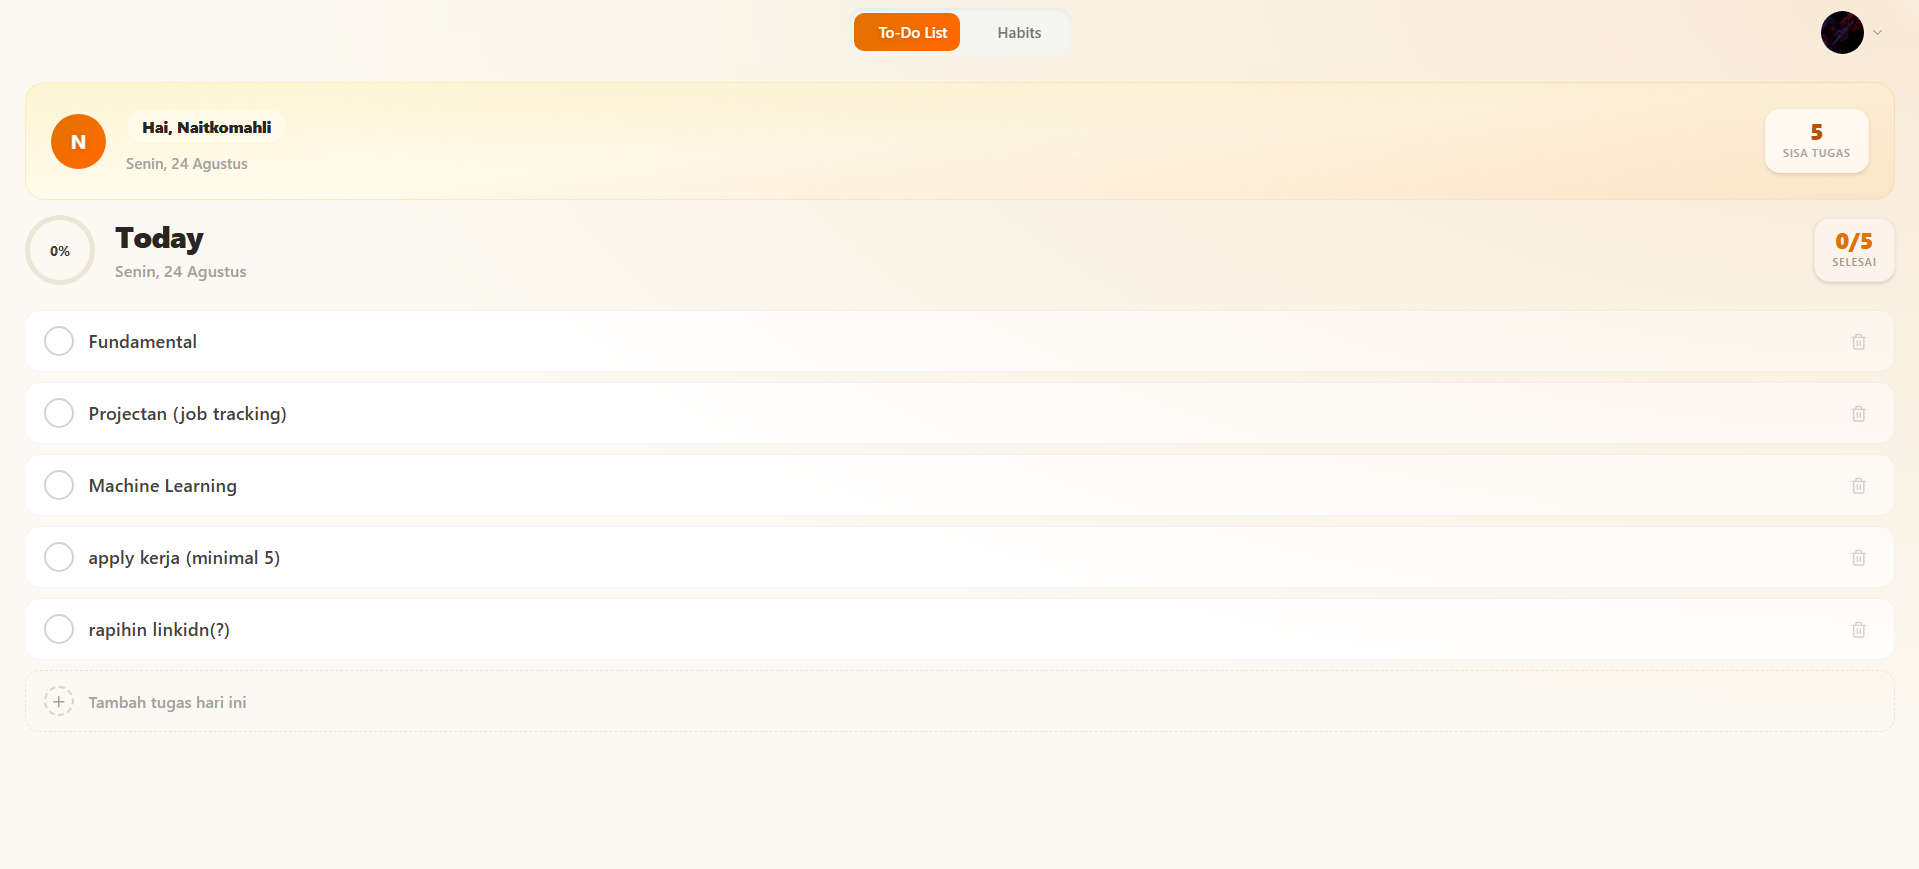
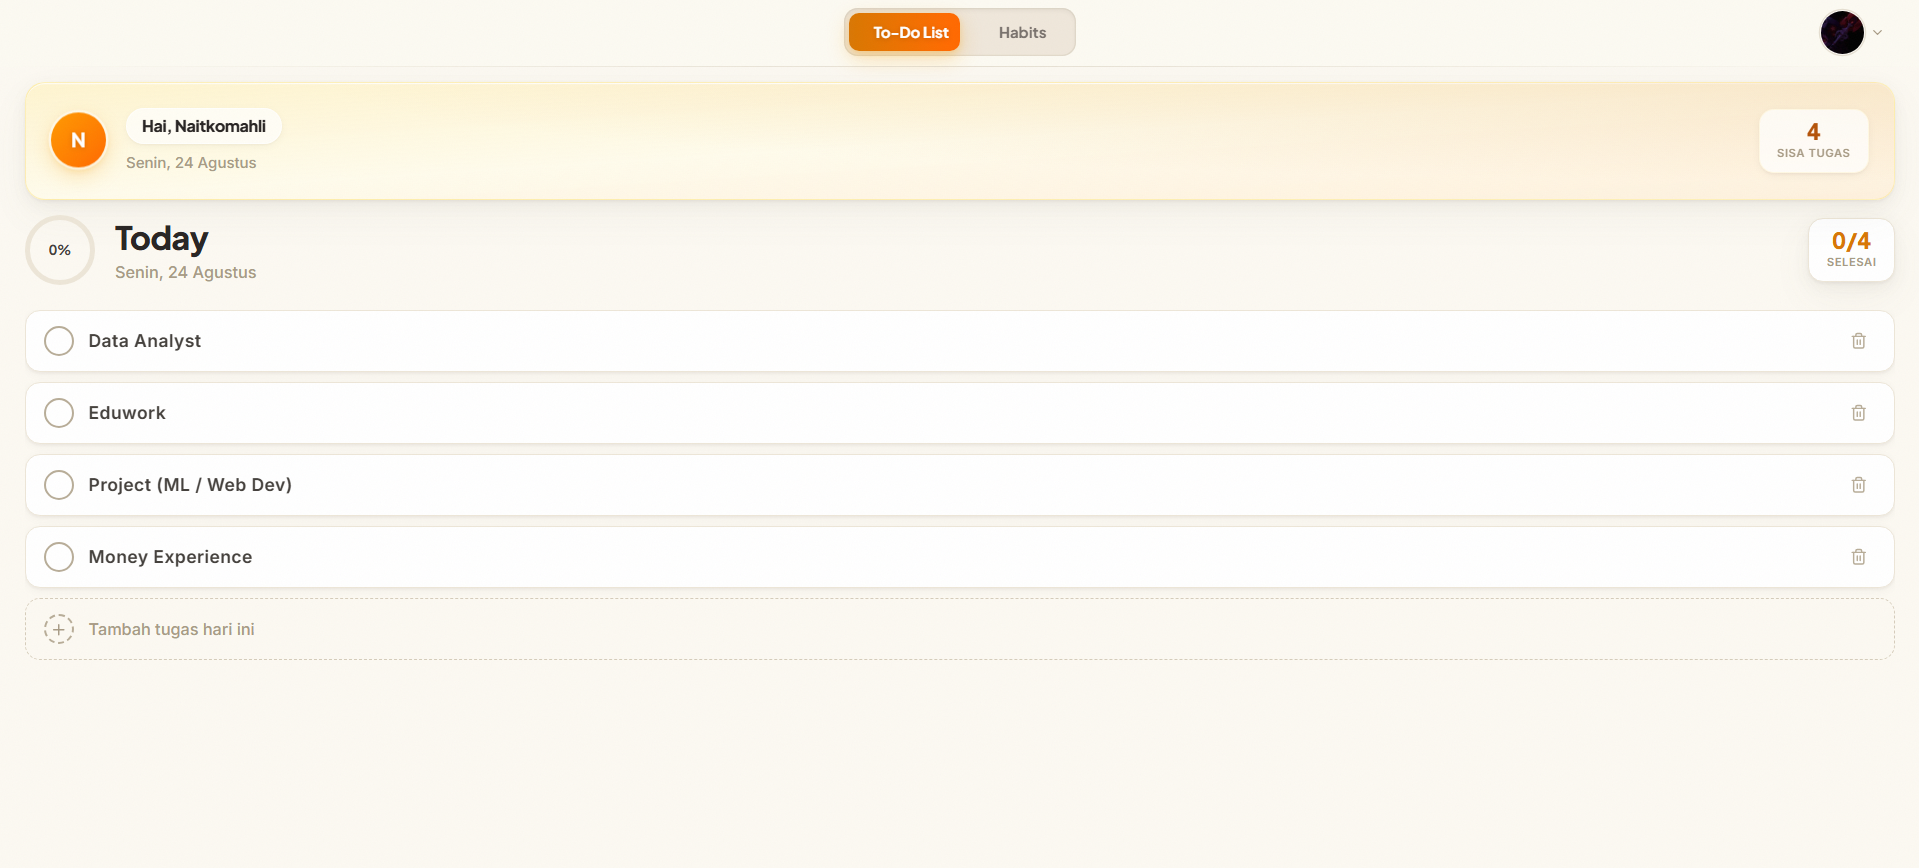
add github link at Job Tracker card project

diff --git a/index.html b/index.html
@@ -93,27 +93,44 @@
           </button>
           <div class="collapse navbar-collapse" id="navbarNav">
             <nav class="navbar-nav ms-auto">
-              <a href="#about" class="nav-link nav-link-dark fw-semibold mx-2" data-i18n="nav-about"
+              <a
+                href="#about"
+                class="nav-link nav-link-dark fw-semibold mx-2"
+                data-i18n="nav-about"
                 >About</a
               >
-              <a href="#skills" class="nav-link nav-link-dark fw-semibold mx-2" data-i18n="nav-skills"
+              <a
+                href="#skills"
+                class="nav-link nav-link-dark fw-semibold mx-2"
+                data-i18n="nav-skills"
                 >Skills</a
               >
               <a
                 href="#experience"
-                class="nav-link nav-link-dark fw-semibold mx-2" data-i18n="nav-experience"
+                class="nav-link nav-link-dark fw-semibold mx-2"
+                data-i18n="nav-experience"
                 >Experience</a
               >
               <a
                 href="#projects"
-                class="nav-link nav-link-dark fw-semibold mx-2" data-i18n="nav-projects"
+                class="nav-link nav-link-dark fw-semibold mx-2"
+                data-i18n="nav-projects"
                 >Projects</a
               >
-              <a href="#contact" class="nav-link nav-link-dark fw-semibold mx-2" data-i18n="nav-contact"
+              <a
+                href="#contact"
+                class="nav-link nav-link-dark fw-semibold mx-2"
+                data-i18n="nav-contact"
                 >Contact</a
               >
             </nav>
-            <button id="lang-toggle" class="lang-toggle-btn ms-2" title="Switch Language">EN</button>
+            <button
+              id="lang-toggle"
+              class="lang-toggle-btn ms-2"
+              title="Switch Language"
+            >
+              EN
+            </button>
           </div>
         </div>
       </header>
@@ -154,19 +171,25 @@
         <div class="row justify-content-center">
           <div class="col-lg-9 scroll-slide-up">
             <div class="text-center mb-5 scroll-fade">
-              <span class="section-label" data-i18n="about-label">Discover</span>
-              <h2 class="display-6 fw-bold mt-2" data-i18n="about-title">About Me</h2>
+              <span class="section-label" data-i18n="about-label"
+                >Discover</span
+              >
+              <h2 class="display-6 fw-bold mt-2" data-i18n="about-title">
+                About Me
+              </h2>
               <div class="accent-line mt-3"></div>
             </div>
 
             <p
-              class="lead fw-semibold mb-3 text-center scroll-fade scroll-stagger-1" data-i18n="about-lead"
+              class="lead fw-semibold mb-3 text-center scroll-fade scroll-stagger-1"
+              data-i18n="about-lead"
             >
-              I am a Junior Web Developer and Machine Learning Enthusiast
-              based in Indonesia.
+              I am a Junior Web Developer and Machine Learning Enthusiast based
+              in Indonesia.
             </p>
             <p
-              class="mb-4 text-center scroll-fade scroll-stagger-2" data-i18n="about-text"
+              class="mb-4 text-center scroll-fade scroll-stagger-2"
+              data-i18n="about-text"
               style="line-height: 1.8; color: var(--text-muted)"
             >
               I have a strong passion for building elegant, functional, and
@@ -225,8 +248,10 @@
                 Universitas Dian Nuswantoro
               </h6>
               <p class="text-muted">
-                <span data-i18n="exp-edu-desc-pre">Currently pursuing a bachelor's degree. Consistently maintaining
-                strong academic performance with a GPA of</span>
+                <span data-i18n="exp-edu-desc-pre"
+                  >Currently pursuing a bachelor's degree. Consistently
+                  maintaining strong academic performance with a GPA of</span
+                >
                 <strong style="color: var(--accent)">3.72 / 4.00</strong>.
               </p>
             </div>
@@ -257,7 +282,9 @@
               <div
                 class="d-flex flex-column flex-sm-row justify-content-between mb-2"
               >
-                <h5 class="fw-bold mb-1" data-i18n="exp-job1-title">Web Developer Intern</h5>
+                <h5 class="fw-bold mb-1" data-i18n="exp-job1-title">
+                  Web Developer Intern
+                </h5>
                 <span class="badge badge-dark-custom pt-2 align-self-start"
                   >Apr 2025 - May 2025</span
                 >
@@ -271,8 +298,8 @@
                   end-to-end (Fullstack) to facilitate citizen reporting.
                 </li>
                 <li data-i18n="exp-job1-desc2">
-                  Developed a responsive web interface and robust backend
-                  data management system.
+                  Developed a responsive web interface and robust backend data
+                  management system.
                 </li>
                 <li data-i18n="exp-job1-desc3">
                   Executed independent feature testing to ensure flawless data
@@ -287,7 +314,9 @@
               <div
                 class="d-flex flex-column flex-sm-row justify-content-between mb-2"
               >
-                <h5 class="fw-bold mb-1" data-i18n="exp-job2-title">Operations & Sales Admin</h5>
+                <h5 class="fw-bold mb-1" data-i18n="exp-job2-title">
+                  Operations & Sales Admin
+                </h5>
                 <span class="badge badge-dark-custom pt-2 align-self-start"
                   >Aug 2022 - Feb 2024</span
                 >
@@ -312,7 +341,7 @@
 
           <!-- Organization -->
           <div class="scroll-fade scroll-stagger-2">
-              <h4 class="fw-bold d-flex align-items-center mb-4">
+            <h4 class="fw-bold d-flex align-items-center mb-4">
               <svg
                 xmlns="http://www.w3.org/2000/svg"
                 width="24"
@@ -338,7 +367,9 @@
               <div
                 class="d-flex flex-column flex-sm-row justify-content-between mb-2"
               >
-                <h5 class="fw-bold mb-1" data-i18n="exp-org-title">Design Staff</h5>
+                <h5 class="fw-bold mb-1" data-i18n="exp-org-title">
+                  Design Staff
+                </h5>
                 <span class="badge badge-dark-custom pt-2 align-self-start"
                   >Aug 2023 - Jan 2024</span
                 >
@@ -357,7 +388,9 @@
 
     <section id="skills" style="padding-bottom: 100px">
       <div class="container pt-5">
-        <h2 class="text-center mb-5 scroll-fade" data-i18n="skills-title">My Technical Toolkit</h2>
+        <h2 class="text-center mb-5 scroll-fade" data-i18n="skills-title">
+          My Technical Toolkit
+        </h2>
 
         <div class="d-flex flex-column align-items-center gap-5">
           <!-- Frontend -->
@@ -514,7 +547,9 @@
       <div class="container">
         <div class="text-center mb-4 scroll-fade">
           <h2 class="text-white mb-2" data-i18n="proj-title">Projects</h2>
-          <p class="text-white-50 small mb-0" data-i18n="proj-subtitle">Explore my featured projects</p>
+          <p class="text-white-50 small mb-0" data-i18n="proj-subtitle">
+            Explore my featured projects
+          </p>
         </div>
 
         <!-- Filter Buttons -->
@@ -522,10 +557,26 @@
           class="d-flex flex-wrap justify-content-center gap-2 mb-5 scroll-fade"
           id="project-filters"
         >
-          <button class="filter-btn active" data-filter="all" data-i18n="filter-all">All</button>
-          <button class="filter-btn" data-filter="web" data-i18n="filter-web">Web Development</button>
-          <button class="filter-btn" data-filter="ml" data-i18n="filter-ml">Machine Learning</button>
-          <button class="filter-btn" data-filter="mobile" data-i18n="filter-mobile">Mobile App</button>
+          <button
+            class="filter-btn active"
+            data-filter="all"
+            data-i18n="filter-all"
+          >
+            All
+          </button>
+          <button class="filter-btn" data-filter="web" data-i18n="filter-web">
+            Web Development
+          </button>
+          <button class="filter-btn" data-filter="ml" data-i18n="filter-ml">
+            Machine Learning
+          </button>
+          <button
+            class="filter-btn"
+            data-filter="mobile"
+            data-i18n="filter-mobile"
+          >
+            Mobile App
+          </button>
         </div>
 
         <!-- Project Grid -->
@@ -657,7 +708,9 @@
                 loading="lazy"
               />
               <div class="card-body d-flex flex-column">
-                <h5 class="card-title" data-i18n="proj-mental-title">Mental Health Detection using SVM</h5>
+                <h5 class="card-title" data-i18n="proj-mental-title">
+                  Mental Health Detection using SVM
+                </h5>
                 <p class="card-text" data-i18n="proj-mental-desc">
                   Undergraduate thesis project using SVM and SMOTE to classify
                   student mental health status from imbalanced data.
@@ -744,7 +797,9 @@
                 loading="lazy"
               />
               <div class="card-body d-flex flex-column">
-                <h5 class="card-title" data-i18n="proj-todo-title">To Do List Website</h5>
+                <h5 class="card-title" data-i18n="proj-todo-title">
+                  To Do List Website
+                </h5>
                 <p class="card-text" data-i18n="proj-todo-desc">
                   A web-based to-do list application with Google authentication,
                   daily-reset checklists, and a weekly habit tracker.
@@ -870,6 +925,18 @@
                 </p>
                 <div class="mt-auto d-flex gap-2">
                   <a
+                    href="https://github.com/Naitkomahli/Job_tracker"
+                    class="project-btn"
+                    title="GitHub Repository"
+                    target="_blank"
+                  >
+                    <img
+                      src="https://img.icons8.com/ios-filled/96/000000/github.png"
+                      alt="GitHub"
+                      style="width: 20px"
+                    />
+                  </a>
+                  <a
                     href="https://job-tracker-five-kappa-28.vercel.app"
                     class="project-btn"
                     title="Live Demo"
@@ -914,7 +981,9 @@
           <!-- Contact Form (Left) -->
           <div class="col-lg-7 scroll-slide-left">
             <div class="contact-form-card p-4 p-md-5 h-100">
-              <h4 class="fw-bold mb-4" data-i18n="contact-form-title">Send a Message</h4>
+              <h4 class="fw-bold mb-4" data-i18n="contact-form-title">
+                Send a Message
+              </h4>
               <form
                 action="https://formsubmit.co/ilhamoktianramadhan@gmail.com"
                 method="POST"
@@ -930,7 +999,10 @@
                 />
 
                 <div class="mb-3">
-                  <label for="name" class="form-label form-label-dark" data-i18n="contact-name-label"
+                  <label
+                    for="name"
+                    class="form-label form-label-dark"
+                    data-i18n="contact-name-label"
                     >Your Name</label
                   >
                   <input
@@ -944,7 +1016,10 @@
                   />
                 </div>
                 <div class="mb-3">
-                  <label for="email" class="form-label form-label-dark" data-i18n="contact-email-label"
+                  <label
+                    for="email"
+                    class="form-label form-label-dark"
+                    data-i18n="contact-email-label"
                     >Your Email</label
                   >
                   <input
@@ -958,7 +1033,10 @@
                   />
                 </div>
                 <div class="mb-4">
-                  <label for="message" class="form-label form-label-dark" data-i18n="contact-msg-label"
+                  <label
+                    for="message"
+                    class="form-label form-label-dark"
+                    data-i18n="contact-msg-label"
                     >Message</label
                   >
                   <textarea
@@ -973,7 +1051,8 @@
                 </div>
                 <button
                   type="submit"
-                  class="btn btn-accent px-4 py-2 rounded-pill fw-bold w-100 mt-auto" data-i18n="contact-send-btn"
+                  class="btn btn-accent px-4 py-2 rounded-pill fw-bold w-100 mt-auto"
+                  data-i18n="contact-send-btn"
                 >
                   Send Message
                 </button>
@@ -984,7 +1063,9 @@
           <!-- Contact Cards & Socials (Right) -->
           <div class="col-lg-5 scroll-slide-right">
             <div class="d-flex flex-column h-100 justify-content-center">
-              <h4 class="fw-bold mb-4" data-i18n="contact-direct">Direct Contact</h4>
+              <h4 class="fw-bold mb-4" data-i18n="contact-direct">
+                Direct Contact
+              </h4>
               <div class="row g-3 mb-5 text-center">
                 <div class="col-6 scroll-scale scroll-stagger-1">
                   <a
@@ -1022,7 +1103,9 @@
                 </div>
               </div>
 
-              <h4 class="fw-bold mb-4" data-i18n="contact-social">Social Media</h4>
+              <h4 class="fw-bold mb-4" data-i18n="contact-social">
+                Social Media
+              </h4>
               <div class="d-flex flex-column align-items-start gap-3 ms-1">
                 <a
                   href="https://www.linkedin.com/in/ilham-oktian-0a32a6298"
